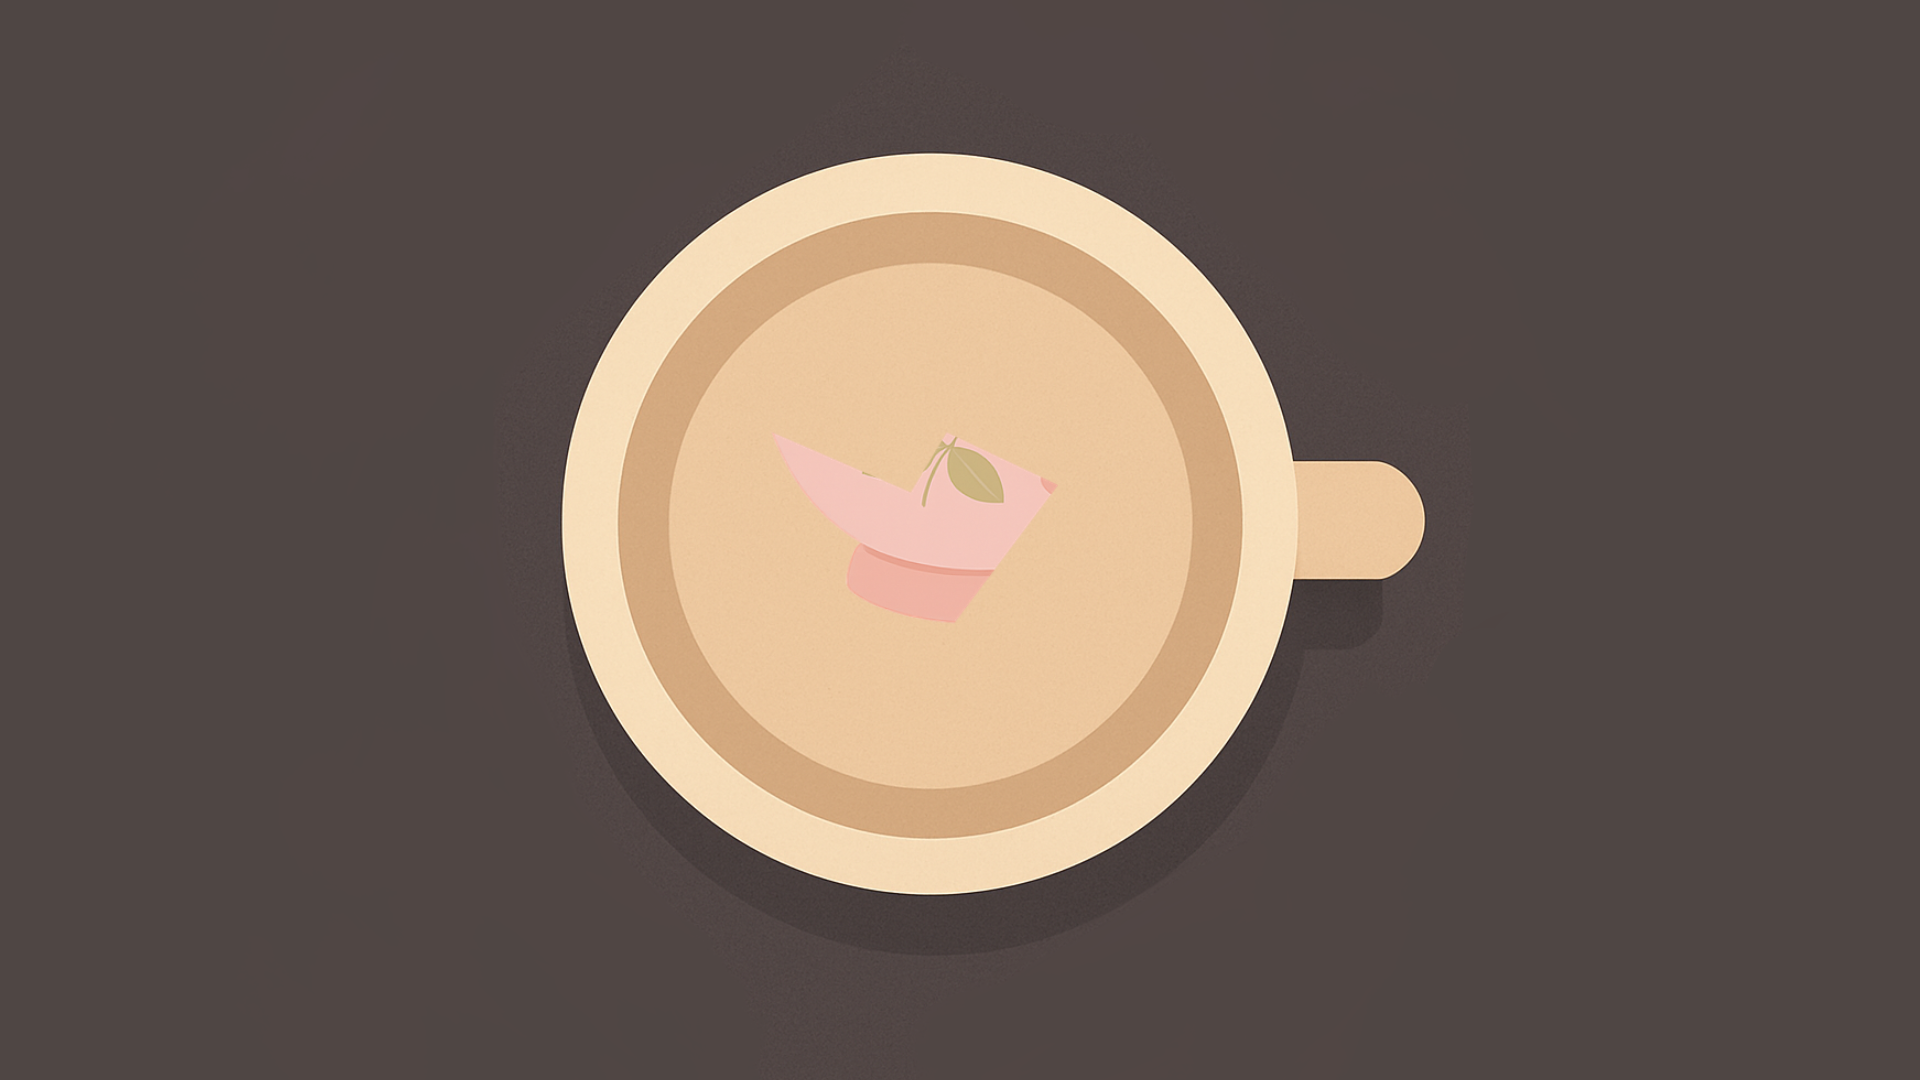
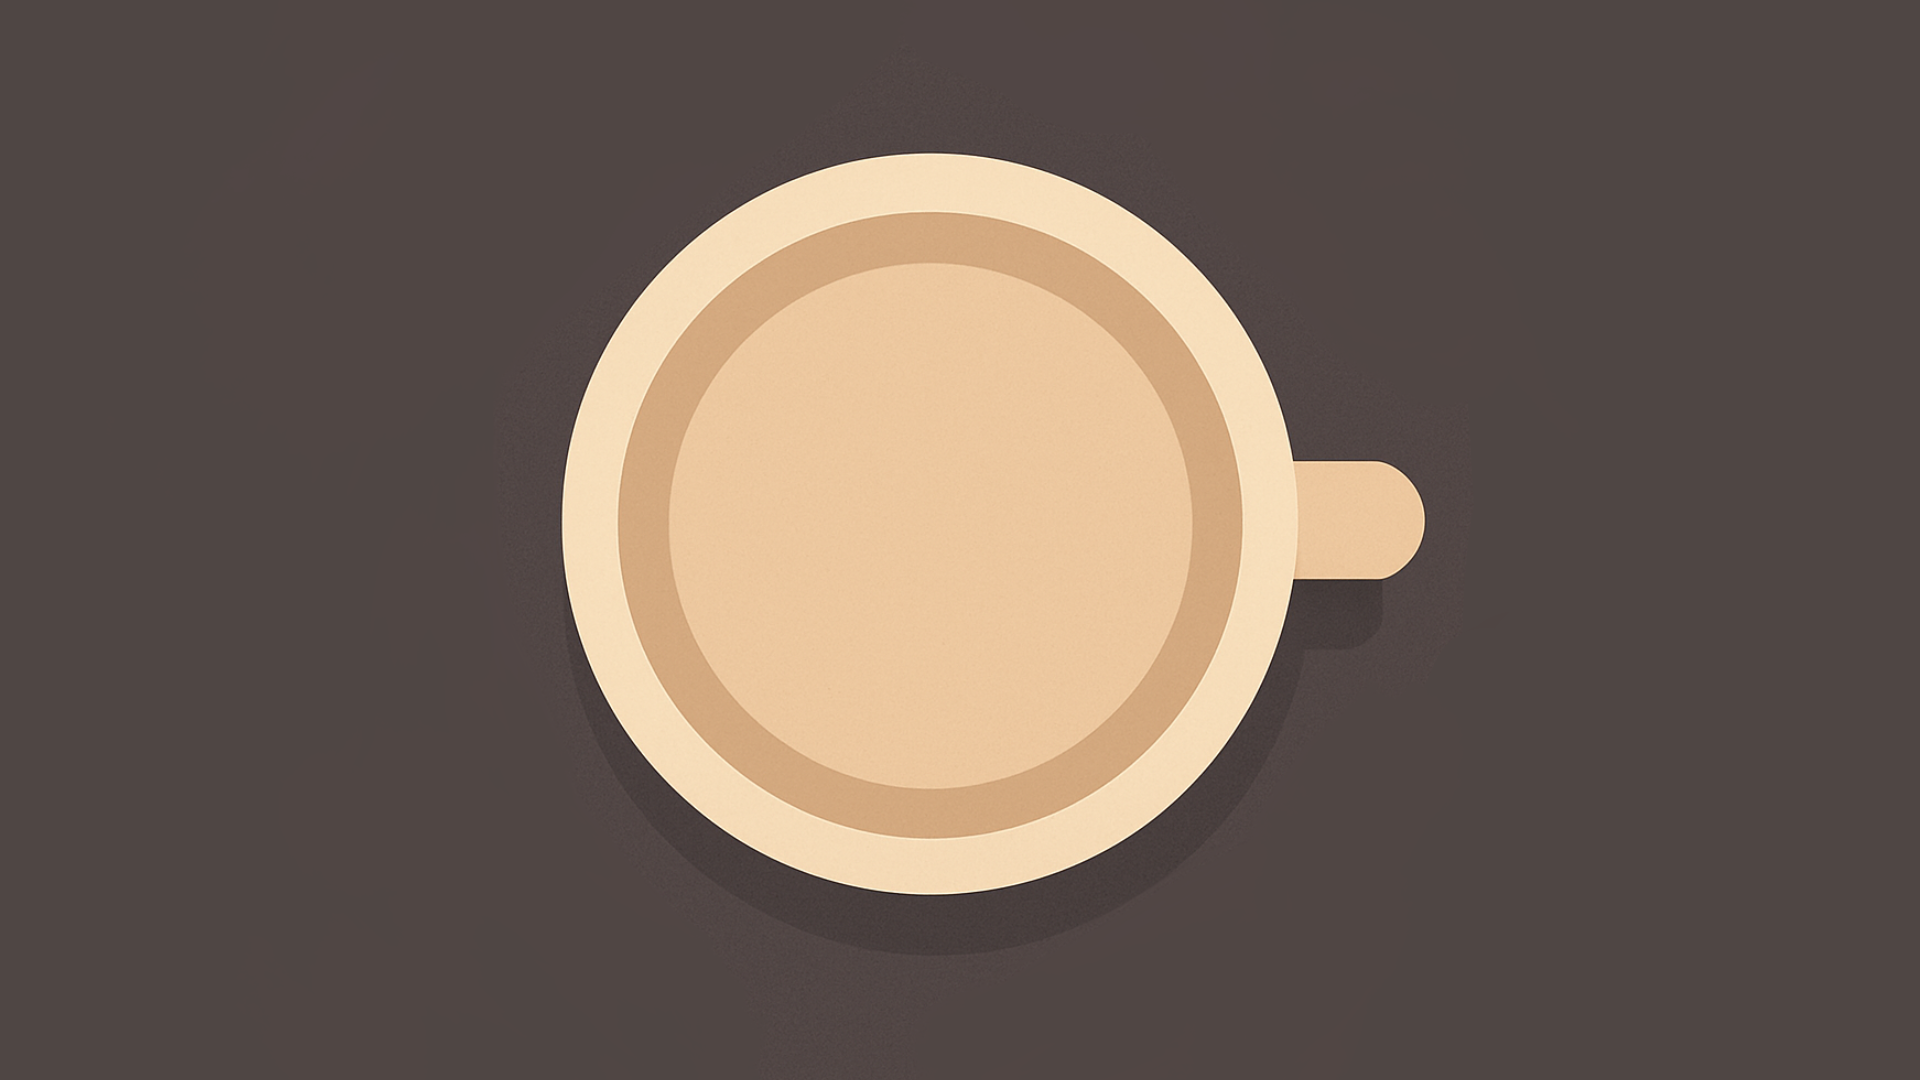
Made all the puzzle pieces disappearing on click

Changed region(s): [[0.4062, 0.3972, 0.5625, 0.55]]

diff --git a/Assets/Scripts/addItem.cs b/Assets/Scripts/addItem.cs
@@ -2,13 +2,24 @@ using UnityEngine;
 
 public class AddItemButton : MonoBehaviour
 {
-    public string itemName; 
+    public string itemName;
+
+    void Start()
+    {
+        // If the item was collected during this session, hide it
+        if (SessionCollectedItems.collectedItems.Contains(itemName))
+        {
+            gameObject.SetActive(false);
+        }
+    }
 
     public void AddItemToInventory()
     {
         if (InventoryManager.Instance != null)
         {
             InventoryManager.Instance.AddItem(itemName);
+            SessionCollectedItems.collectedItems.Add(itemName); // Mark as collected this session
+            gameObject.SetActive(false);
         }
         else
         {

diff --git a/Assets/Scripts/SessionCollectedItems.cs b/Assets/Scripts/SessionCollectedItems.cs
@@ -1,0 +1,7 @@
+using System.Collections.Generic;
+using UnityEngine;
+
+public static class SessionCollectedItems
+{
+    public static HashSet<string> collectedItems = new HashSet<string>();
+}
